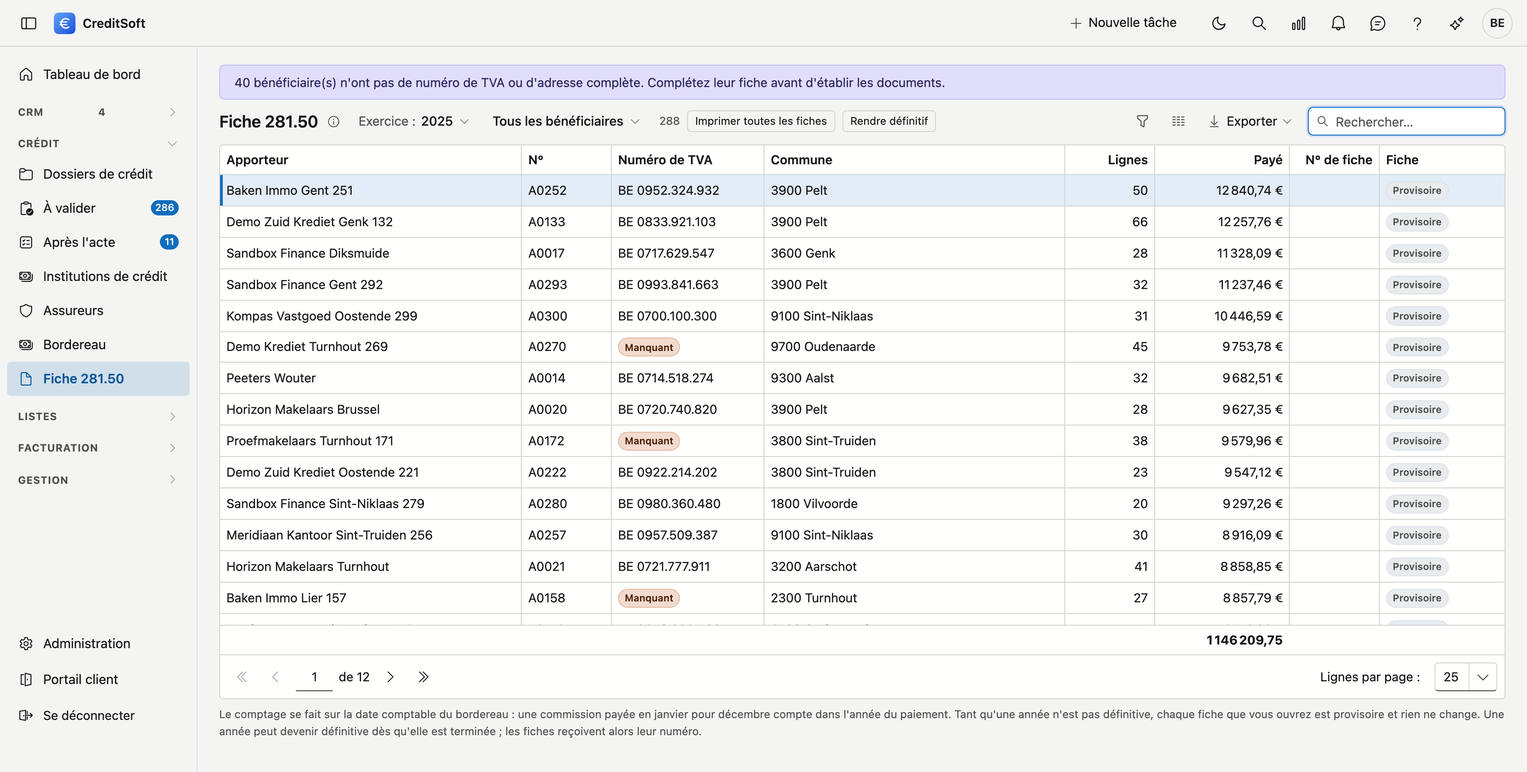
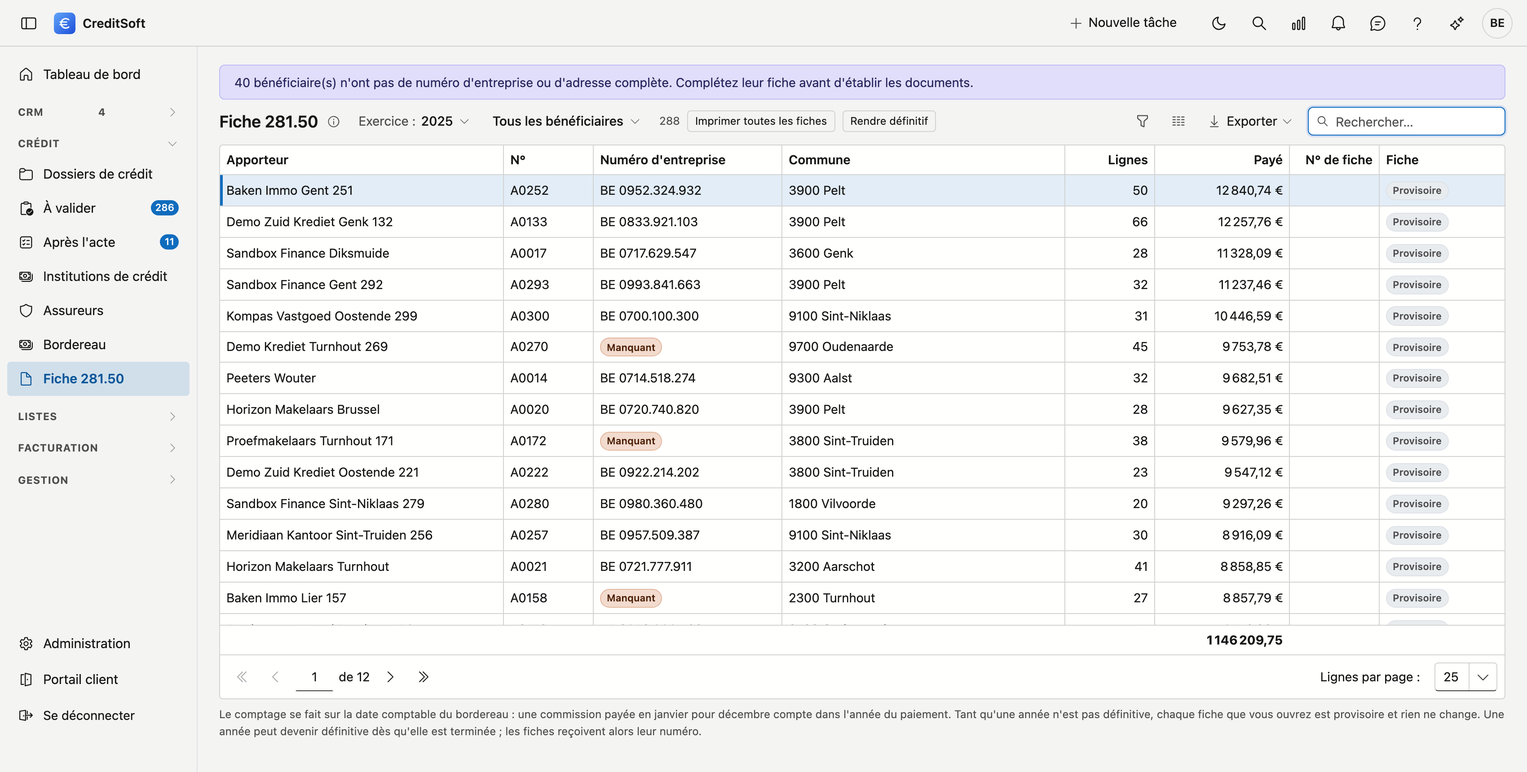
Handleiding 1.207.0: percentage bij doorgeven, ondernemingsnummer, type krediet
Commissie doorgeven met een percentage (bewaard wordt het bedrag), ondernemingsnummer
in plaats van btw-nummer op de fiche 281.50 en de aanbrengersfiche, rijksregisternummer
als volwaardig nummer op de fiche, en Type krediet bij een kantoor zonder productenlijst.
Beelden fiche-281-50 en portaal-toegang hernomen op adm-creditsoft 5737ba37.

diff --git a/docs/credit-management/fiche-281-50.fr.md b/docs/credit-management/fiche-281-50.fr.md
@@ -8,7 +8,7 @@ Ce qu'un apporteur verse lui-même à ses propres courtiers n'apparaît pas dans
 
 Dans le menu de gauche, cliquez sur **Fiche 281.50**, sous *Crédit*.
 
-![L'écran Fiche 281.50 : en haut le choix de l'exercice, un filtre sur les bénéficiaires et les boutons Imprimer toutes les fiches et Rendre définitif, en dessous la liste indiquant par ligne l'apporteur, son numéro, le numéro de TVA, la commune, le nombre de lignes, le montant payé, le numéro de fiche et l'état de la fiche.](../images/fiche-281-50-fr.png "Ce qui a été versé à chaque apporteur durant une année civile"){ .volle-breedte }
+![L'écran Fiche 281.50 : en haut le choix de l'exercice, un filtre sur les bénéficiaires et les boutons Imprimer toutes les fiches et Rendre définitif, en dessous la liste indiquant par ligne l'apporteur, son numéro, le numéro d'entreprise, la commune, le nombre de lignes, le montant payé, le numéro de fiche et l'état de la fiche.](../images/fiche-281-50-fr.png "Ce qui a été versé à chaque apporteur durant une année civile"){ .volle-breedte }
 
 ## Sur quoi porte le comptage
 
@@ -27,7 +27,7 @@ Une [récupération pour remboursement anticipé](commission-clawback.md) est **
 |---|---|
 | **Apporteur** | Le bénéficiaire de la commission |
 | **N°** | Son numéro d'apporteur |
-| **Numéro de TVA** | Le numéro d'entreprise qui figurera sur la fiche |
+| **Numéro d'entreprise** | Le numéro qui figurera sur la fiche. Si une personne n'a qu'un numéro national, *Numéro national* s'affiche ici : ce numéro figure sur la fiche, mais pas dans cette liste. |
 | **Commune** | Code postal et commune de son adresse |
 | **Lignes** | Le nombre d'écritures de commission comprises dans le montant |
 | **Payé** | Le total — c'est le montant qui figurera sur la fiche |
@@ -38,9 +38,9 @@ Le total de ce qui est affiché figure au bas de la liste.
 
 ## Qui reçoit une fiche
 
-Une fiche 281.50 s'adresse en principe à qui possède un **numéro de TVA**. Le filtre en haut porte par défaut sur *Tous les bénéficiaires*, afin que vous ayez d'abord la vue complète ; placez-le sur *Avec numéro de TVA* au moment d'imprimer.
+Une fiche 281.50 s'adresse en principe à qui possède un **numéro d'entreprise** ou, pour une personne physique, un **numéro national**. Le filtre en haut porte par défaut sur *Tous les bénéficiaires*, afin que vous ayez d'abord la vue complète ; placez-le sur *Avec numéro* au moment d'imprimer.
 
-Ceux qui n'ont pas de numéro apparaissent en orange, avec la mention **Manquant**. En haut de l'écran, vous voyez combien de bénéficiaires ont une donnée manquante — un numéro de TVA ou une adresse complète.
+Ceux qui n'ont ni l'un ni l'autre apparaissent en orange, avec la mention **Manquant**. En haut de l'écran, vous voyez combien de bénéficiaires ont une donnée manquante — un numéro d'entreprise ou une adresse complète.
 
 !!! warning "Complétez les données manquantes avant d'imprimer"
     Une fiche avec un numéro d'entreprise vide ou sans adresse est inutilisable. Ouvrez la fiche de l'apporteur, complétez ce qui manque, puis revenez.
@@ -72,7 +72,7 @@ Après votre confirmation :
 La commission que vous n'avez pas encore décomptée reste simplement en attente. Si vous la décomptez avec une date du document dans une année suivante, elle compte sur la fiche de cette année-là.
 
 !!! warning "Une fiche est figée telle qu'elle est à ce moment"
-    S'il manque un numéro de TVA ou une adresse, complétez-le avant de rendre l'année définitive. Un bénéficiaire avec un total annuel négatif ne reçoit pas de fiche.
+    S'il manque un numéro d'entreprise ou une adresse, complétez-le avant de rendre l'année définitive. Un bénéficiaire avec un total annuel négatif ne reçoit pas de fiche.
 
 ## Rouvrir une année
 

diff --git a/docs/credit-management/fiche-281-50.md b/docs/credit-management/fiche-281-50.md
@@ -8,7 +8,7 @@ Wat een aanbrenger zelf aan zijn eigen makelaars uitbetaalt, staat niet in deze 
 
 Klik in het menu links op **Fiche 281.50**, onder *Krediet*.
 
-![Het scherm Fiche 281.50: bovenaan de keuze van het boekjaar, een filter op begunstigden en de knoppen Alle fiches afdrukken en Definitief maken, daaronder de lijst met per regel de aanbrenger, zijn nummer, het btw-nummer, de gemeente, het aantal lijnen, het uitbetaalde bedrag, het fichenummer en de stand van de fiche.](../images/fiche-281-50.png "Wat er in een kalenderjaar aan elke aanbrenger is uitbetaald"){ .volle-breedte }
+![Het scherm Fiche 281.50: bovenaan de keuze van het boekjaar, een filter op begunstigden en de knoppen Alle fiches afdrukken en Definitief maken, daaronder de lijst met per regel de aanbrenger, zijn nummer, het ondernemingsnummer, de gemeente, het aantal lijnen, het uitbetaalde bedrag, het fichenummer en de stand van de fiche.](../images/fiche-281-50.png "Wat er in een kalenderjaar aan elke aanbrenger is uitbetaald"){ .volle-breedte }
 
 ## Waarop er geteld wordt
 
@@ -27,7 +27,7 @@ Een [terugvordering bij vervroegde terugbetaling](commission-clawback.md) telt *
 |---|---|
 | **Aanbrenger** | De begunstigde van de commissie |
 | **Nr.** | Zijn aanbrengersnummer |
-| **Btw-nummer** | Het ondernemingsnummer dat op de fiche komt |
+| **Ondernemingsnummer** | Het nummer dat op de fiche komt. Heeft iemand enkel een rijksregisternummer, dan staat hier *Rijksregisternummer*: dat nummer komt op de fiche, maar niet in deze lijst. |
 | **Gemeente** | Postcode en gemeente uit zijn adres |
 | **Lijnen** | Hoeveel commissieboekingen er in het bedrag zitten |
 | **Uitbetaald** | Het totaal — dit is het bedrag dat op de fiche komt |
@@ -38,9 +38,9 @@ Onderaan de lijst staat het totaal van wat er zichtbaar is.
 
 ## Wie er een fiche krijgt
 
-Een fiche 281.50 gaat in principe naar wie een **btw-nummer** heeft. De filter bovenaan staat standaard op *Alle begunstigden*, zodat u eerst het volledige beeld hebt; zet hem op *Met btw-nummer* wanneer u gaat afdrukken.
+Een fiche 281.50 gaat in principe naar wie een **ondernemingsnummer** heeft, of als natuurlijk persoon een **rijksregisternummer**. De filter bovenaan staat standaard op *Alle begunstigden*, zodat u eerst het volledige beeld hebt; zet hem op *Met nummer* wanneer u gaat afdrukken.
 
-Wie geen nummer heeft, staat in het oranje met de vermelding **Ontbreekt**. Bovenaan het scherm ziet u hoeveel begunstigden er iets missen — een btw-nummer of een volledig adres.
+Wie geen van beide heeft, staat in het oranje met de vermelding **Ontbreekt**. Bovenaan het scherm ziet u hoeveel begunstigden er iets missen: een ondernemingsnummer of een volledig adres.
 
 !!! warning "Vul de ontbrekende gegevens aan vóór u afdrukt"
     Een fiche met een leeg ondernemingsnummer of zonder adres is niet bruikbaar. Open de fiche van de aanbrenger en vul aan wat er ontbreekt; kom daarna terug.
@@ -72,7 +72,7 @@ Na uw bevestiging:
 Commissie die u nog niet afrekende, blijft gewoon openstaan. Rekent u ze af met een documentdatum in een volgend jaar, dan telt ze op de fiche van dat jaar.
 
 !!! warning "Een fiche ligt vast zoals ze op dat moment is"
-    Ontbreekt er een btw-nummer of een adres, vul dat dan aan vóór u het jaar definitief maakt. Een begunstigde met een negatief jaartotaal krijgt geen fiche.
+    Ontbreekt er een ondernemingsnummer of een adres, vul dat dan aan vóór u het jaar definitief maakt. Een begunstigde met een negatief jaartotaal krijgt geen fiche.
 
 ## Een jaar heropenen
 

diff --git a/docs/portaal/fiches-281-50.md b/docs/portaal/fiches-281-50.md
@@ -24,7 +24,7 @@ Er wordt geteld op de **documentdatum van uw afrekenronde**: het moment dat het 
 |---|---|
 | **Aanbrenger** | De makelaar die de commissie ontving |
 | **Nr.** | Zijn aanbrengersnummer |
-| **Btw-nummer** | Het ondernemingsnummer dat op de fiche komt |
+| **Ondernemingsnummer** | Het nummer dat op de fiche komt. Heeft iemand enkel een rijksregisternummer, dan staat hier *Rijksregisternummer*: dat nummer komt op de fiche, maar niet in deze lijst. |
 | **Gemeente** | Postcode en gemeente uit zijn adres |
 | **Lijnen** | Hoeveel commissieboekingen er in het bedrag zitten |
 | **Uitbetaald** | Het totaal: dit is het bedrag dat op de fiche komt |
@@ -35,12 +35,12 @@ Onderaan de lijst staat het totaal van wat er zichtbaar is.
 
 ## Wie er een fiche krijgt
 
-Een fiche 281.50 gaat in principe naar wie een **btw-nummer** heeft. De filter bovenaan staat standaard op *Alle begunstigden*, zodat u eerst het volledige beeld hebt; zet hem op *Met btw-nummer* wanneer u gaat afdrukken.
+Een fiche 281.50 gaat in principe naar wie een **ondernemingsnummer** heeft, of als natuurlijk persoon een **rijksregisternummer**. De filter bovenaan staat standaard op *Alle begunstigden*, zodat u eerst het volledige beeld hebt; zet hem op *Met nummer* wanneer u gaat afdrukken.
 
-Wie geen nummer heeft, staat in het oranje met de vermelding **Ontbreekt**. Bovenaan het scherm ziet u hoeveel makelaars er iets missen: een btw-nummer of een volledig adres. De gegevens van uw makelaars past u niet zelf aan in het portaal; vraag het kantoor om ze aan te vullen.
+Wie geen van beide heeft, staat in het oranje met de vermelding **Ontbreekt**. Bovenaan het scherm ziet u hoeveel makelaars er iets missen: een ondernemingsnummer of een volledig adres. De gegevens van uw makelaars past u niet zelf aan in het portaal; vraag het kantoor om ze aan te vullen.
 
 !!! warning "Uw eigen gegevens staan op elke fiche"
-    U staat op elke fiche als **schuldenaar van de inkomsten**, met uw naam, uw adres en uw btw-nummer. Ontbreekt daar iets, dan staat er bovenaan een melding. Vraag het kantoor om uw gegevens aan te vullen vóór u de fiches opmaakt.
+    U staat op elke fiche als **schuldenaar van de inkomsten**, met uw naam, uw adres en uw ondernemingsnummer. Ontbreekt daar iets, dan staat er bovenaan een melding. Vraag het kantoor om uw gegevens aan te vullen vóór u de fiches opmaakt.
 
 ## De fiches bekijken en afdrukken
 
@@ -69,7 +69,7 @@ Na uw bevestiging:
 Commissie die u nog niet afrekende, blijft openstaan. Rekent u ze af met een documentdatum in een volgend jaar, dan telt ze op de fiche van dat jaar.
 
 !!! warning "Een fiche ligt vast zoals ze op dat moment is"
-    Ontbreekt er een btw-nummer of een adres, vraag het kantoor dan om dat aan te vullen vóór u het jaar definitief maakt. Een makelaar met een negatief jaartotaal krijgt geen fiche.
+    Ontbreekt er een ondernemingsnummer of een adres, vraag het kantoor dan om dat aan te vullen vóór u het jaar definitief maakt. Een makelaar met een negatief jaartotaal krijgt geen fiche.
 
 Moet een definitieve fiche toch veranderen, vraag het kantoor dan om het jaar te heropenen. De nummers blijven daarbij behouden.
 

diff --git a/docs/credit-management/credit-files.fr.md b/docs/credit-management/credit-files.fr.md
@@ -92,7 +92,7 @@ Le dossier tient sur une seule page. En haut, le bloc principal reprend les donn
 
 ### Données du dossier
 
-Le bloc d'en-tête porte ce dont vous avez le plus souvent besoin : numéro interne, **propriétaire**, **sales**, **statut**, institution financière, apporteur, le montant du crédit avec la case *Retenir*, et la date de l'acte.
+Le bloc d'en-tête porte ce dont vous avez le plus souvent besoin : numéro interne, **propriétaire**, **sales**, **statut**, institution financière, apporteur, le montant du crédit avec la case *Retenir*, et la date de l'acte. Si votre bureau travaille sans liste de produits, **Type de crédit** y figure aussi : la nature du crédit, par exemple un crédit à la consommation ou un leasing.
 
 Dans la carte en dessous à gauche figurent en haut les dates de dépôt et d'approbation, avec le type de dossier. En dessous, la signature de l'offre se trouve à côté de la date limite de l'offre, suivie des dates limites de l'acte et des conditions suspensives. Ces trois dates limites apparaissent sur le [tableau de bord](../getting-started/dashboard.md) parmi les délais. En dessous figure **À revoir le** avec un **motif** : la date à laquelle vous voulez réexaminer le dossier, même longtemps après l'acte. Si la date de l'acte est remplie, le lien **Un an après l'acte** complète la date pour vous. Le dossier apparaît alors sur le [tableau de bord](../getting-started/dashboard.md#le-suivi-des-credits-en-cours) sous *À revoir*, avec le motif. Le bas de la carte reprend le but, la valeur estimée et la quotité.
 
@@ -239,6 +239,8 @@ L'onglet **Factures** montre la **charte** de ce dossier et les **factures** qui
 ### Contrats
 
 Les contrats de crédit rattachés à ce dossier. La liste affiche le numéro, le produit, le statut, le montant, la durée, le taux d'intérêt et l'institution ; la charge mensuelle et la date de début se trouvent sur le contrat lui-même.
+
+Un contrat a toujours un produit. Si votre bureau travaille sans liste de produits, vous ne pouvez pas ajouter de contrat et vous choisissez la nature du crédit avec **Type de crédit** en haut du dossier.
 
 La fenêtre du contrat s'adapte au **type de produit** : pour un crédit ordinaire elle demande le type de produit, le taux, la variabilité et la charge mensuelle ; pour une assurance solde restant dû s'y ajoutent la prime, le type et la périodicité, ainsi que la désignation des personnes assurées.
 

diff --git a/docs/portaal/afrekeningen.fr.md b/docs/portaal/afrekeningen.fr.md
@@ -22,14 +22,18 @@ courtier. Cliquez en haut sur **+ Reverser une commission**. Dans la fenêtre qu
 | Champ | Signification |
 |---|---|
 | **Courtier** | La personne que vous voulez payer. La liste reprend les courtiers rattachés à votre bureau. |
-| **Montant** | Ce que ce courtier reçoit. C'est vous qui le déterminez — indépendamment de ce que vous percevez. |
+| **Pourcentage de votre commission** | Le pourcentage de votre propre commission sur ce dossier que ce courtier reçoit. Dès que vous quittez le champ, CreditSoft calcule le montant. Vous pouvez aussi laisser ce champ vide et saisir directement un montant. |
+| **Montant** | Ce que ce courtier reçoit. Si vous saisissez vous-même un montant, la fenêtre indique le pourcentage correspondant. |
 | **Date de début** | À partir de quand la comptabilisation commence. CreditSoft remplit la date de l'acte ; s'il n'y a pas encore d'acte, vous la choisissez vous-même. |
 | **Payé directement (%)** | La part payée immédiatement. À 100, vous payez la totalité en une fois. |
 | **Étalé sur (mois)** | Sur combien de mois le solde est réparti. Obligatoire dès que vous payez moins de 100 % immédiatement. |
 
 Cliquez sur **Reverser**. S'il manque encore quelque chose, la fenêtre l'indique. Si tout est en ordre, la fenêtre se
-ferme et le courtier figure dans le tableau. Ce que vous percevez vous-même est indiqué à titre informatif. C'est une
-aide, pas une limite : la décision vous appartient.
+ferme et le courtier figure dans le tableau. Ce que vous percevez vous-même est indiqué à titre informatif : la somme de votre
+commission en cours sur ce dossier, sans ce qui est arrêté. C'est une aide, pas une limite : la décision vous appartient.
+
+!!! note "C'est le montant qui est enregistré"
+    Le pourcentage vous aide uniquement à calculer au moment où vous reversez. Si votre propre commission change par la suite, le montant de votre courtier ne suit pas. Si aucune commission n'est en cours pour vous sur le dossier, vous ne pouvez pas saisir de pourcentage, mais bien un montant.
 
 !!! warning "La première comptabilisation tombe le mois suivant la date de début"
     Si vous indiquez le 15 janvier, la première ligne de commission se situe en **février**. C'est la même

diff --git a/docs/credit-management/credit-files.md b/docs/credit-management/credit-files.md
@@ -92,7 +92,7 @@ Het dossier is één pagina. Bovenaan staat het kernblok met de gegevens die u h
 
 ### Dossiergegevens
 
-Het kopblok bovenaan draagt wat u het vaakst nodig hebt: intern nummer, **eigenaar**, **sales**, **status**, financiële instelling, aanbrenger, het kredietbedrag met het vinkje *Inhouden*, en de datum van de akte.
+Het kopblok bovenaan draagt wat u het vaakst nodig hebt: intern nummer, **eigenaar**, **sales**, **status**, financiële instelling, aanbrenger, het kredietbedrag met het vinkje *Inhouden*, en de datum van de akte. Werkt uw kantoor zonder productenlijst, dan staat er ook **Type krediet**: de aard van het krediet, bijvoorbeeld consumentenkrediet of leasing.
 
 In de kaart eronder links staan bovenaan de datums van indiening en goedkeuring, met het type dossier. Daaronder staat de ondertekening van het aanbod naast de uiterste datum voor het aanbod, en dan de uiterste datums voor de akte en de opschortende voorwaarden. Die drie uiterste datums verschijnen op het [dashboard](../getting-started/dashboard.md) bij de termijnen. Daaronder staat **Herbekijken op** met een **reden**: de datum waarop u het dossier wil nalopen, ook lang nadat het krediet geakteerd is. Is de datum van de akte ingevuld, dan vult de link **Eén jaar na de akte** de datum voor u in. Het dossier verschijnt dan op het [dashboard](../getting-started/dashboard.md#opvolging-van-lopende-kredieten) bij *Herbekijken*, met de reden erbij. Onderaan de kaart volgen het doel, de schattingswaarde en de quotiteit.
 
@@ -239,6 +239,8 @@ Het tabblad **Facturen** toont het **charter** van dit dossier en de **facturen*
 ### Contracten
 
 De kredietcontracten onder dit dossier. De lijst toont nummer, product, status, bedrag, looptijd, rentevoet en instelling; maandlast en startdatum vindt u op het contract zelf.
+
+Een contract heeft altijd een product. Werkt uw kantoor zonder productenlijst, dan kunt u geen contract toevoegen en kiest u de aard van het krediet met **Type krediet** bovenaan het dossier.
 
 Het contractvenster past zich aan de **productsoort** aan: bij een gewoon krediet vraagt het producttype, rentevoet, variabiliteit en maandlast, bij een schuldsaldoverzekering komen daar premie, type en periodiciteit bij, plus het aanvinken van wie verzekerd is.
 

diff --git a/docs/crm/contributors.fr.md b/docs/crm/contributors.fr.md
@@ -54,10 +54,10 @@ consulter. Le tiroir et la fiche affichent la même chose et fonctionnent de man
 
 ### Identité
 
-Qui est cet apporteur et quel rôle il joue : **type d'apporteur** (principal, bureau ou sous-agent), **rattaché à** — l'apporteur sous lequel il se trouve dans l'arborescence —, **forme juridique**, **relation**, **formule d'appel**, **qualité**, le nom ou la **raison sociale** avec le **type d'entreprise**, le **numéro de TVA**, le **numéro d'agent**, la **langue des documents** (obligatoire) et le **groupement** — le groupe auquel appartient cet apporteur, issu de votre liste sous [Groupes](groups.md).
+Qui est cet apporteur et quel rôle il joue : **type d'apporteur** (principal, bureau ou sous-agent), **rattaché à** — l'apporteur sous lequel il se trouve dans l'arborescence —, **forme juridique**, **relation**, **formule d'appel**, **qualité**, le nom ou la **raison sociale** avec le **type d'entreprise**, le **numéro d'entreprise**, le **numéro d'agent**, la **langue des documents** (obligatoire) et le **groupement** — le groupe auquel appartient cet apporteur, issu de votre liste sous [Groupes](groups.md).
 
 !!! tip "Récupérer automatiquement les données d'entreprise"
-    Saisissez le **numéro de TVA** et cliquez sur **Récupérer** : CreditSoft reprend le nom, la forme juridique
+    Saisissez le **numéro d'entreprise** et cliquez sur **Récupérer** : CreditSoft reprend le nom, la forme juridique
     et l'adresse directement depuis la Banque-Carrefour des Entreprises.
 
 ### Agrément et statut
@@ -168,7 +168,7 @@ haut. Sélectionnez d'abord la fiche que vous voulez **conserver**, cliquez sur 
 la fenêtre celle qui doit y être absorbée.
 
 Avant que vous confirmiez, la fenêtre affiche les **coordonnées qui seront perdues** : l'adresse e-mail, le
-numéro de téléphone et le numéro de TVA de la fiche appelée à disparaître. Vous voyez ainsi d'emblée s'il s'y
+numéro de téléphone et le numéro d'entreprise de la fiche appelée à disparaître. Vous voyez ainsi d'emblée s'il s'y
 trouve quelque chose que vous préférez reprendre au préalable.
 
 **Après** la fusion, vous obtenez un aperçu de **ce qui a été déplacé**, par type : dossiers, commissions,

diff --git a/docs/portaal/afrekeningen.md b/docs/portaal/afrekeningen.md
@@ -21,13 +21,17 @@ Klik bovenaan op **+ Commissie doorgeven**. In het venster dat opengaat, vult u 
 | Veld | Wat het betekent |
 |---|---|
 | **Makelaar** | Wie u wilt betalen. De lijst bevat de makelaars die onder uw kantoor hangen. |
-| **Bedrag** | Wat die makelaar krijgt. U bepaalt dit zelf — het staat los van wat u zelf ontvangt. |
+| **Percentage van uw commissie** | Hoeveel procent van uw eigen commissie op dit dossier die makelaar krijgt. Zodra u het veld verlaat, rekent CreditSoft het bedrag uit. U mag dit veld ook leeg laten en meteen een bedrag invullen. |
+| **Bedrag** | Wat die makelaar krijgt. Vult u zelf een bedrag in, dan toont het venster welk percentage dat is. |
 | **Startdatum** | Vanaf wanneer er geboekt wordt. CreditSoft vult de datum van de akte in; is er nog geen akte, dan kiest u ze zelf. |
 | **Direct uitbetaald (%)** | Welk deel meteen betaald wordt. Op 100 betaalt u het volledige bedrag in één keer. |
 | **Gespreid over (maanden)** | Over hoeveel maanden de rest gespreid wordt. Verplicht zodra u minder dan 100 % direct uitbetaalt. |
 
 Klik op **Doorgeven**. Ontbreekt er nog iets, dan zegt het venster wat. Lukt het, dan sluit het venster en staat de
-makelaar in de tabel. Wat u zelf ontvangt, staat er ter informatie bij. Dat is een hulpmiddel, geen grens: u beslist zelf.
+makelaar in de tabel. Wat u zelf ontvangt, staat er ter informatie bij: de som van uw lopende commissie op dit dossier, zonder wat gestopt is. Dat is een hulpmiddel, geen grens: u beslist zelf.
+
+!!! note "Bewaard wordt het bedrag"
+    Het percentage helpt u enkel rekenen op het moment dat u doorgeeft. Wijzigt uw eigen commissie later, dan beweegt het bedrag van uw makelaar niet mee. Loopt er op het dossier geen commissie voor u, dan kunt u geen percentage invullen, maar wel een bedrag.
 
 !!! warning "De eerste boeking valt in de maand ná de startdatum"
     Zet u de startdatum op 15 januari, dan staat de eerste commissielijn op **februari**. Dat is dezelfde

diff --git a/docs/crm/contributors.md b/docs/crm/contributors.md
@@ -55,10 +55,10 @@ fiche tonen hetzelfde en werken op elk scherm gelijk;
 
 ### Identiteit
 
-Wie deze aanbrenger is en welke rol hij speelt: **type aanbrenger** (hoofd, kantoor of sub), **valt onder** — de aanbrenger waaronder hij hangt in de boom —, **rechtsvorm**, **relatie**, **aanspreking**, **hoedanigheid**, de naam of **bedrijfsnaam** met het **bedrijfstype**, het **btw-nummer**, het **aanbrengernummer**, de **documenttaal** (verplicht) en de **groepering** — de groep waartoe deze aanbrenger behoort, uit uw lijst bij [Groepen](groups.md).
+Wie deze aanbrenger is en welke rol hij speelt: **type aanbrenger** (hoofd, kantoor of sub), **valt onder** — de aanbrenger waaronder hij hangt in de boom —, **rechtsvorm**, **relatie**, **aanspreking**, **hoedanigheid**, de naam of **bedrijfsnaam** met het **bedrijfstype**, het **ondernemingsnummer**, het **aanbrengernummer**, de **documenttaal** (verplicht) en de **groepering** — de groep waartoe deze aanbrenger behoort, uit uw lijst bij [Groepen](groups.md).
 
 !!! tip "Bedrijfsgegevens automatisch ophalen"
-    Vul het **btw-nummer** in en klik op **Ophalen**: CreditSoft haalt naam, rechtsvorm en adres rechtstreeks
+    Vul het **ondernemingsnummer** in en klik op **Ophalen**: CreditSoft haalt naam, rechtsvorm en adres rechtstreeks
     uit de Kruispuntbank van Ondernemingen.
 
 ### Erkenning en status
@@ -169,7 +169,7 @@ bovenaan. Selecteer eerst de fiche die u wil **behouden**, klik dan op de knop e
 fiche daarin moet opgaan.
 
 Voor u bevestigt, toont het venster de **contactgegevens die verloren gaan**: het e-mailadres, het
-telefoonnummer en het btw-nummer van de fiche die verdwijnt. Zo ziet u meteen of daar iets bij staat dat u
+telefoonnummer en het ondernemingsnummer van de fiche die verdwijnt. Zo ziet u meteen of daar iets bij staat dat u
 liever eerst overneemt.
 
 Ná het samenvoegen krijgt u een overzicht van **wat er verhuisd is**, per soort: dossiers, commissies, taken,

diff --git a/docs/credit-management/commission-statements.fr.md b/docs/credit-management/commission-statements.fr.md
@@ -85,7 +85,7 @@ il n'a pas sa place à côté d'un bouton que vous utilisez tous les jours.
 
 ### Imprimer
 
-Ouvre l'**aperçu avant impression** : un pdf en format paysage, avec votre en-tête — logo, adresse, coordonnées et numéro FSMA issus de votre fiche d'entreprise — et à droite l'adresse de l'apporteur avec son numéro de TVA, de sorte que le document se lise comme un décompte qui lui est adressé.
+Ouvre l'**aperçu avant impression** : un pdf en format paysage, avec votre en-tête — logo, adresse, coordonnées et numéro FSMA issus de votre fiche d'entreprise — et à droite l'adresse de l'apporteur avec son numéro d'entreprise, de sorte que le document se lise comme un décompte qui lui est adressé.
 
 Chaque ligne de commission indique la **date d'acte**, **votre référence**, le **client**, le **bien**, le **prêteur**, le **montant du crédit** et la **commission**. Les lignes sont triées par date d'acte. Une commission libre n'a pas de dossier : vous y lisez la description à la place. Le total figure en bas, et les en-têtes de colonnes se répètent sur chaque page avec un numéro de page.
 

diff --git a/docs/credit-management/commission-statements.md b/docs/credit-management/commission-statements.md
@@ -85,7 +85,7 @@ ongedaan, en die knop hoort niet naast een knop die u elke dag gebruikt.
 
 ### Afdrukken
 
-Opent het **afdrukvoorbeeld**: een pdf op een liggend blad, met uw briefhoofd — logo, adres, contactgegevens en FSMA-nr. uit uw bedrijfsfiche — en rechts het adres van de aanbrenger met zijn btw-nummer, zodat het document leest als een afrekening die aan hém gericht is.
+Opent het **afdrukvoorbeeld**: een pdf op een liggend blad, met uw briefhoofd — logo, adres, contactgegevens en FSMA-nr. uit uw bedrijfsfiche — en rechts het adres van de aanbrenger met zijn ondernemingsnummer, zodat het document leest als een afrekening die aan hém gericht is.
 
 Per commissielijn staat er: de **aktedatum**, **uw kenmerk**, de **klant**, het **pand**, de **kredietverstrekker**, het **kredietbedrag** en de **commissie**. De lijnen staan op aktedatum gesorteerd. Een vrije commissie heeft geen dossier: daar leest u de omschrijving in de plaats. Onderaan het totaal, en de kolomkoppen staan op elke bladzijde opnieuw met een paginanummer.
 
